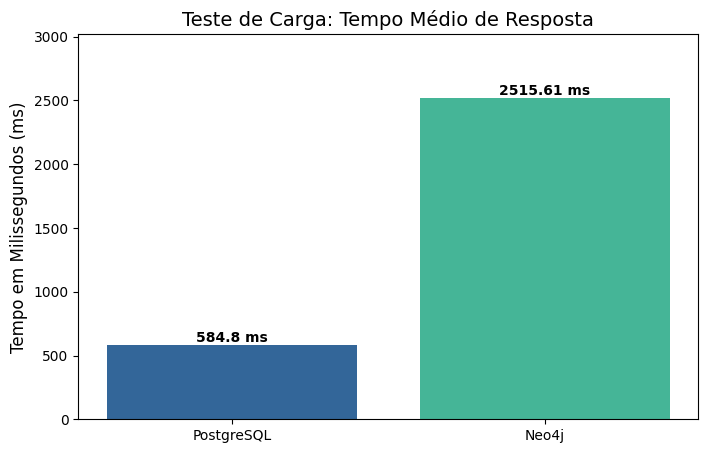
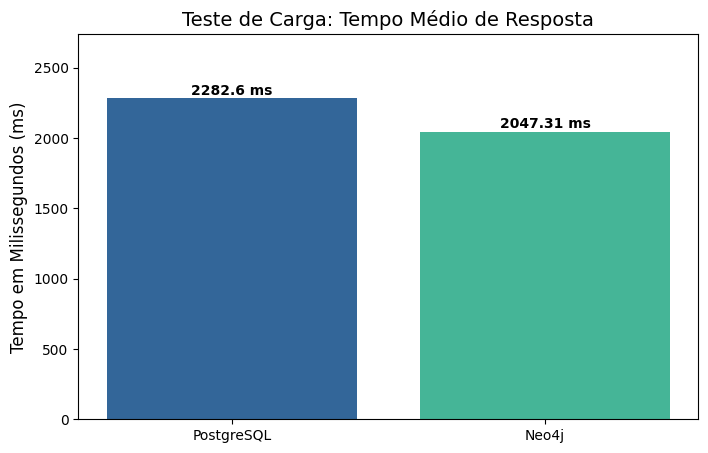
reestruturando para 1m de dados e gerando graficos

diff --git a/gerar_grafico_duelo.py b/gerar_grafico_duelo.py
@@ -1,0 +1,68 @@
+import requests
+import matplotlib
+matplotlib.use('Agg')
+import matplotlib.pyplot as plt
+
+def testar_motor(motor, url):
+    print(f"\n[{motor}] Iniciando Duelo")
+    
+    print("Cold Start")
+    try:
+        res_frio = requests.get(url)
+        tempo_frio = res_frio.json().get("tempo_execucao_ms", 0) if res_frio.status_code == 200 else 0
+    except:
+        tempo_frio = 0
+        
+    # Teste a Quente (Hot Start) - A memória já mapeou o caminho
+    print("Hot Start")
+    try:
+        res_quente = requests.get(url)
+        tempo_quente = res_quente.json().get("tempo_execucao_ms", 0) if res_quente.status_code == 200 else 0
+    except:
+        tempo_quente = 0
+    
+    print(f"Resultado {motor} | Frio: {tempo_frio} ms | Quente: {tempo_quente} ms")
+    return tempo_frio, tempo_quente
+
+if __name__ == "__main__":
+    usuario_teste = 1
+    url_postgres = f"http://127.0.0.1:8000/recomendar/colaborativo/postgres/{usuario_teste}"
+    url_neo4j = f"http://127.0.0.1:8000/recomendar/colaborativo/neo4j/{usuario_teste}"
+    
+    pg_frio, pg_quente = testar_motor("PostgreSQL", url_postgres)
+    neo_frio, neo_quente = testar_motor("Neo4j", url_neo4j)
+    
+    print("\nMontando o gráfico de comparação Frio vs Quente")
+    
+    labels = ['PostgreSQL', 'Neo4j']
+    tempos_frio = [pg_frio, neo_frio]
+    tempos_quente = [pg_quente, neo_quente]
+    
+    x = range(len(labels))
+    largura = 0.35
+    
+    fig, ax = plt.subplots(figsize=(9, 6))
+    
+    barras_frio = ax.bar([pos - largura/2 for pos in x], tempos_frio, largura, label='Cold Start (1ª Requisição)', color='#1f77b4')
+    barras_quente = ax.bar([pos + largura/2 for pos in x], tempos_quente, largura, label='Hot Start (Cache)', color='#ff7f0e')
+    
+    ax.set_ylabel('Tempo de Resposta em Milissegundos (ms)', fontsize=12)
+    ax.set_title('Desempenho Relacional vs Grafos: Cold Start vs Hot Start', fontsize=14)
+    ax.set_xticks(x)
+    ax.set_xticklabels(labels, fontsize=12, fontweight='bold')
+    ax.legend()
+    
+    for barra in barras_frio + barras_quente:
+        altura = barra.get_height()
+        ax.annotate(f'{altura} ms',
+                    xy=(barra.get_x() + barra.get_width() / 2, altura),
+                    xytext=(0, 3),  
+                    textcoords="offset points",
+                    ha='center', va='bottom', fontweight='bold')
+                    
+    plt.ylim(0, max(max(tempos_frio), max(tempos_quente)) * 1.2)
+    plt.tight_layout()
+    
+    nome_arquivo = 'grafico_duelo.png'
+    plt.savefig(nome_arquivo)
+    print(f"Sucesso! Gráfico salvo como '{nome_arquivo}'!")

diff --git a/scripts/load_graph.py b/scripts/load_graph.py
@@ -47,19 +47,25 @@ def load_to_neo4j():
             genres=genres_dict,
         )
 
-        print(" -> Inserindo Avaliações")
+        print(" -> Inserindo Avaliações em Lotes (Batching)...")
         ratings_dict = ratings_df[["userId", "movieId", "rating"]].to_dict("records")
-        session.run(
-            """
-            UNWIND $ratings AS r
-            MERGE (u:User {userId: r.userId})
-            WITH u, r
-            MATCH (m:Movie {movieId: r.movieId})
-            MERGE (u)-[rel:RATED]->(m)
-            SET rel.rating = r.rating
-        """,
-            ratings=ratings_dict,
-        )
+        
+        tamanho_lote = 10000
+        
+        for i in range(0, len(ratings_dict), tamanho_lote):
+            lote = ratings_dict[i : i + tamanho_lote]
+            session.run(
+                """
+                UNWIND $ratings AS r
+                MERGE (u:User {userId: r.userId})
+                WITH u, r
+                MATCH (m:Movie {movieId: r.movieId})
+                MERGE (u)-[rel:RATED]->(m)
+                SET rel.rating = r.rating
+                """,
+                ratings=lote,
+            )
+            print(f"    Processados {i + len(lote)} de {len(ratings_dict)}")
 
     driver.close()
     print("\nSucesso! Carga no Neo4j concluída. O banco de grafos está populado.")

diff --git a/converter_dados.py b/converter_dados.py
@@ -1,0 +1,43 @@
+import csv
+import os
+
+def converter_dat_para_csv(arquivo_entrada, arquivo_saida, cabecalhos):
+    caminho_entrada = os.path.join('dataset', arquivo_entrada)
+    caminho_saida = os.path.join('dataset', arquivo_saida)
+    
+    print(f"Convertendo {arquivo_entrada} para {arquivo_saida}")
+    
+    with open(caminho_entrada, 'r', encoding='latin-1') as f_in, \
+         open(caminho_saida, 'w', encoding='utf-8', newline='') as f_out:
+        
+        escritor = csv.writer(f_out)
+        escritor.writerow(cabecalhos)
+        
+        for linha in f_in:
+            campos = linha.strip().split('::')
+            escritor.writerow(campos)
+            
+    print(f"Concluido: {arquivo_saida}")
+
+if __name__ == "__main__":
+    print("Iniciando conversao")
+    
+    converter_dat_para_csv(
+        'ratings.dat', 
+        'ratings.csv', 
+        ['userId', 'movieId', 'rating', 'timestamp']
+    )
+
+    converter_dat_para_csv(
+        'movies.dat', 
+        'movies.csv', 
+        ['movieId', 'title', 'genres']
+    )
+    
+    converter_dat_para_csv(
+        'users.dat', 
+        'users.csv', 
+        ['userId', 'gender', 'age', 'occupation', 'zip']
+    )
+    
+    print("Conversao finalizada com sucesso")

diff --git a/scripts/etl_process.py b/scripts/etl_process.py
@@ -5,8 +5,8 @@ import os
 def extract_and_transform():
     print("Iniciando o processamento dos dados do MovieLens...")
 
-    movies_path = "data/movies.csv"
-    ratings_path = "data/ratings.csv"
+    movies_path = "dataset/movies.csv"
+    ratings_path = "dataset/ratings.csv"
 
     if not os.path.exists(movies_path):
         print(
